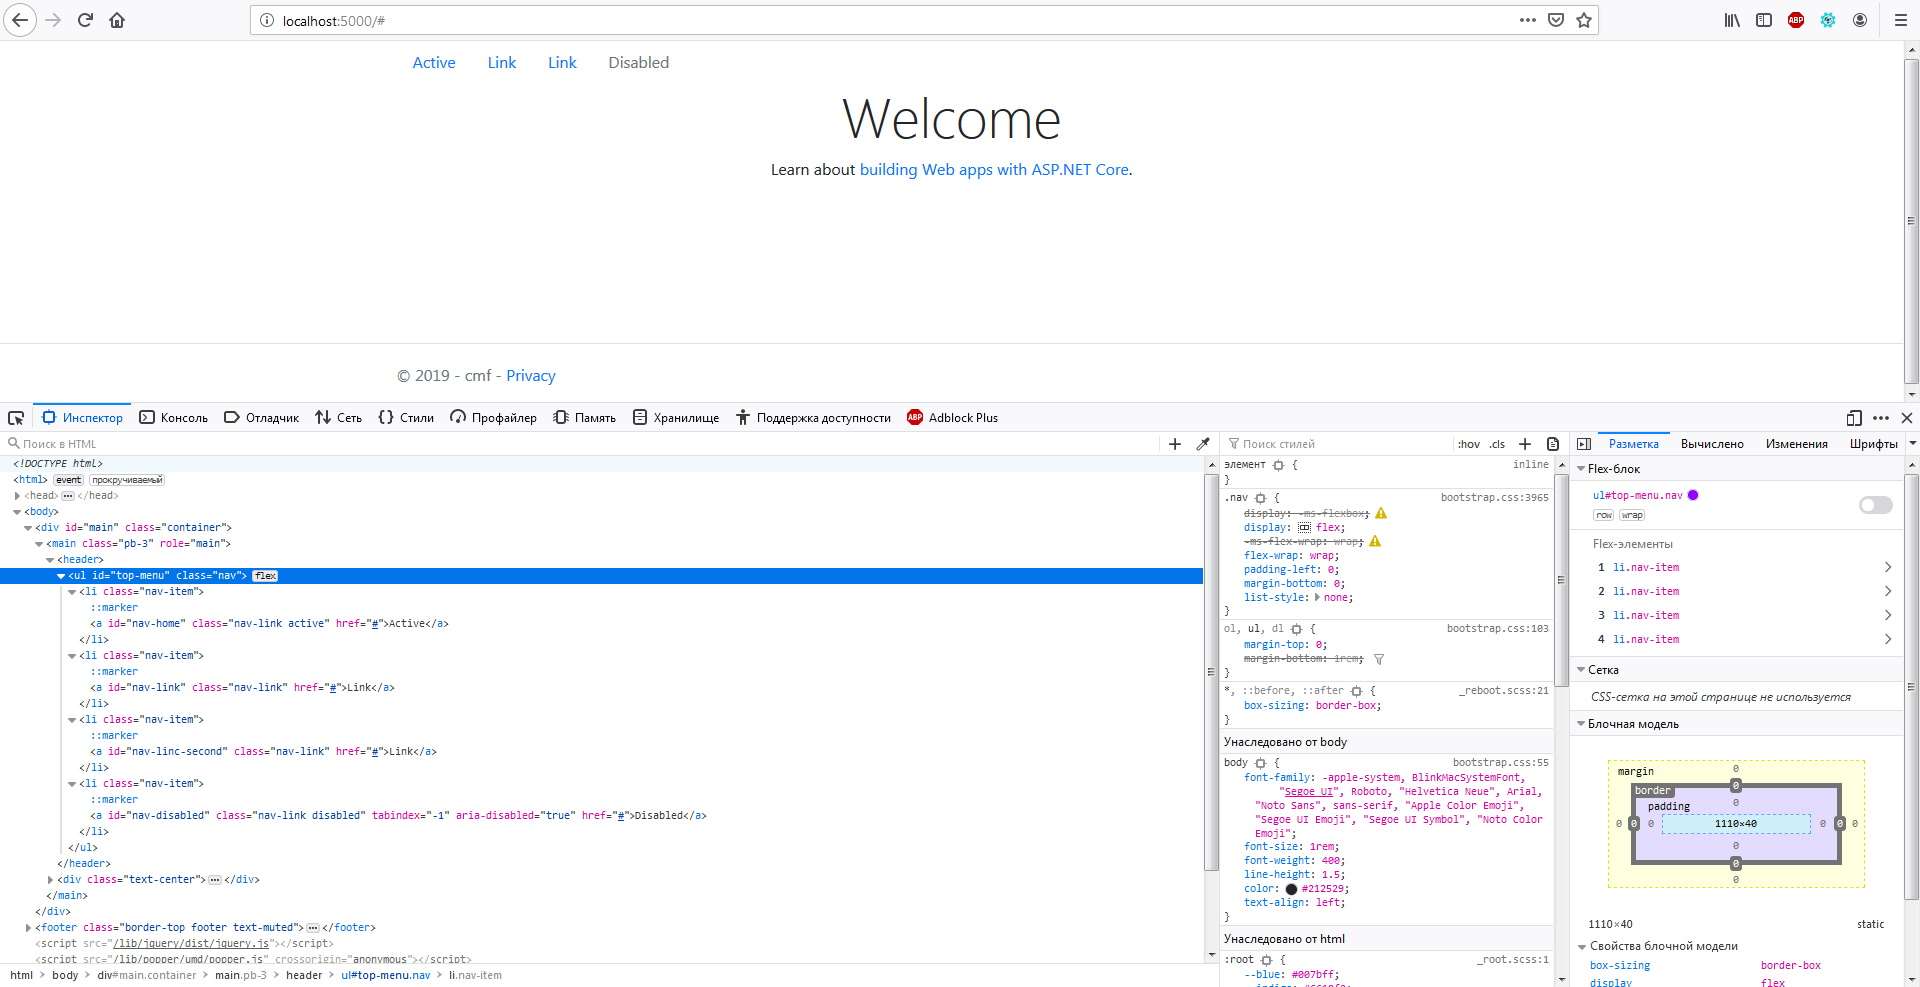
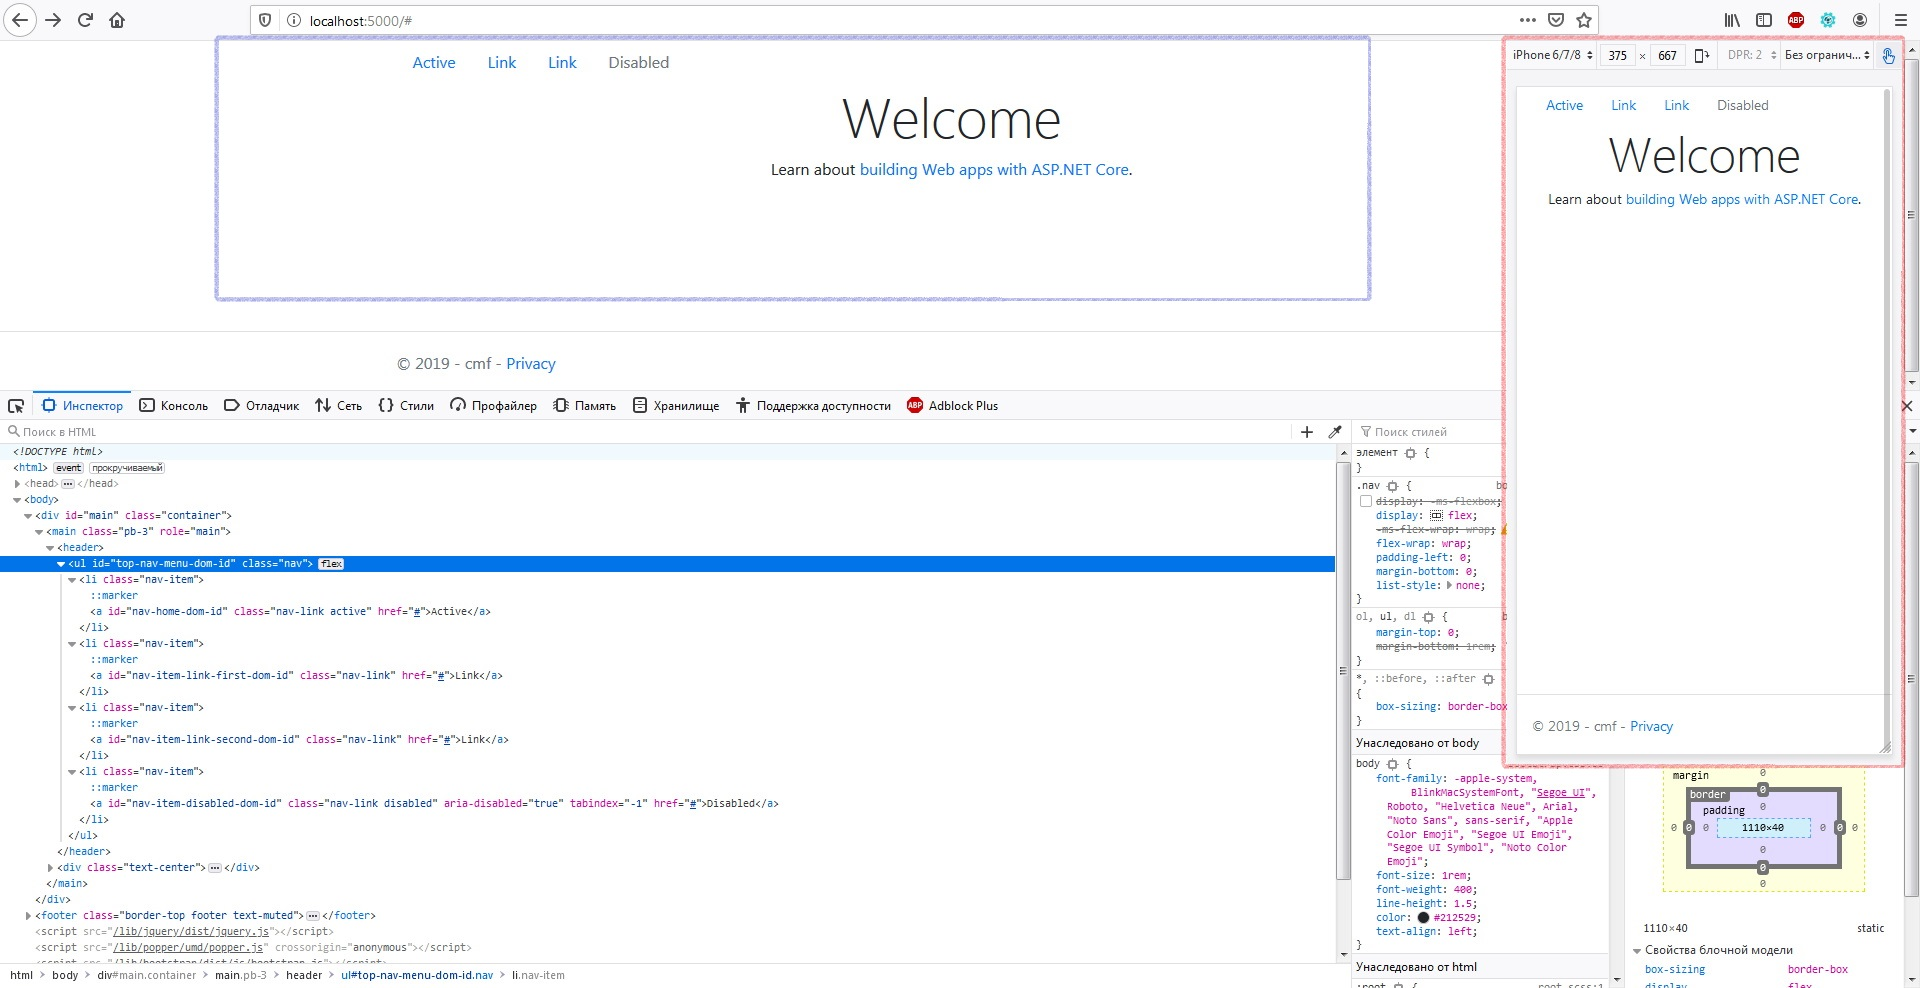
~

diff --git a/Components/html/bootstrap/navs/README.md b/Components/html/bootstrap/navs/README.md
@@ -7,16 +7,16 @@
 
 ```cshtml
 <header>
-  @{
-    NavReferenceBehaviorManager nav = new NavReferenceBehaviorManager("top-menu");
-    nav.NavigationOrientation = NavOrientationsEnum.HorizontallyLeftAligned;
-    nav.AddNav(SetNavHeader: "Active", SetNavId: "nav-home", SetNavHref: "#").IsActive = true;
-    nav.AddNav("Link", "nav-link", "#");
-    nav.AddNav("Link", "nav-link-second", "#");
-    nav.AddNav("Disabled", "nav-disabled", "#").IsDisabled = true;
-    nav.NavWrapperType = NavWrapperTypesEnum.ul;
-  }
-  @await Component.InvokeAsync(typeof(NavBase).Name, new { SetObjectManager = nav, SetPillsTheme = false })
+@{
+  NavReferenceBehaviorManager nav = new NavReferenceBehaviorManager("top-nav-menu-dom-id");
+  nav.NavigationOrientation = NavOrientationsEnum.HorizontallyLeftAligned;
+  nav.AddNav(SetNavHeader: "Active", SetNavId: "nav-home-dom-id", SetNavHref: "#").IsActive = true;
+  nav.AddNav("Link", "nav-item-link-first-dom-id", "#");
+  nav.AddNav("Link", "nav-item-link-second-dom-id", "#");
+  nav.AddNav("Disabled", "nav-item-disabled-dom-id", "#").IsDisabled = true;
+  nav.NavWrapperType = NavWrapperTypesEnum.ul;
+}
+@await Component.InvokeAsync(typeof(NavBase).Name, new { SetObjectManager = nav, SetPillsTheme = false })
 </header>
 ```
 ***result:***
@@ -122,7 +122,7 @@
     nav.AddNav(SetNavHeader: "Active", SetNavId: "nav-home", SetNavHref: "#").IsActive = true;
     nav.AddNav("Link", "nav-link", "#");
     nav.AddNav("Link", "nav-link-second", "#");
-    nav.AddNav("Disabled", "nav-disabled", "#").IsDisabled = true;                    
+    nav.AddNav("Disabled", "nav-disabled", "#").IsDisabled = true;        
     nav.NavWrapperType = NavWrapperTypesEnum.ul;
   }
   @await Component.InvokeAsync(typeof(NavBase).Name, new { SetObjectManager = nav, SetPillsTheme = false })
@@ -145,7 +145,7 @@
     nav.AddNav(SetNavHeader: "Active", SetNavId: "nav-home", SetNavHref: "#").IsActive = true;
     nav.AddNav("Link", "nav-link", "#");
     nav.AddNav("Link", "nav-link-second", "#");
-    nav.AddNav("Disabled", "nav-disabled", "#").IsDisabled = true;                    
+    nav.AddNav("Disabled", "nav-disabled", "#").IsDisabled = true;        
     nav.NavWrapperType = NavWrapperTypesEnum.nav;
   }
   @await Component.InvokeAsync(typeof(NavBase).Name, new { SetObjectManager = nav, SetPillsTheme = false })
@@ -304,7 +304,7 @@
     // по умолчанию <a></a> якоря уже будут иметь обязательные классы стилей. мы к ним добавляем дополнительные
     // классы стилей будут добавлены толкьо в существующие(уже добавленые) пункты меню
     nav.ChildsAddCSS("flex-sm-fill text-sm-center");
-                   
+       
     nav.NavWrapperType = BootstrapViewComponentsRazorLibrary.Models.NavWrapperTypesEnum.nav;
   }
   @await Component.InvokeAsync(typeof(NavBase).Name, new { SetObjectManager = nav, SetPillsTheme = true })
